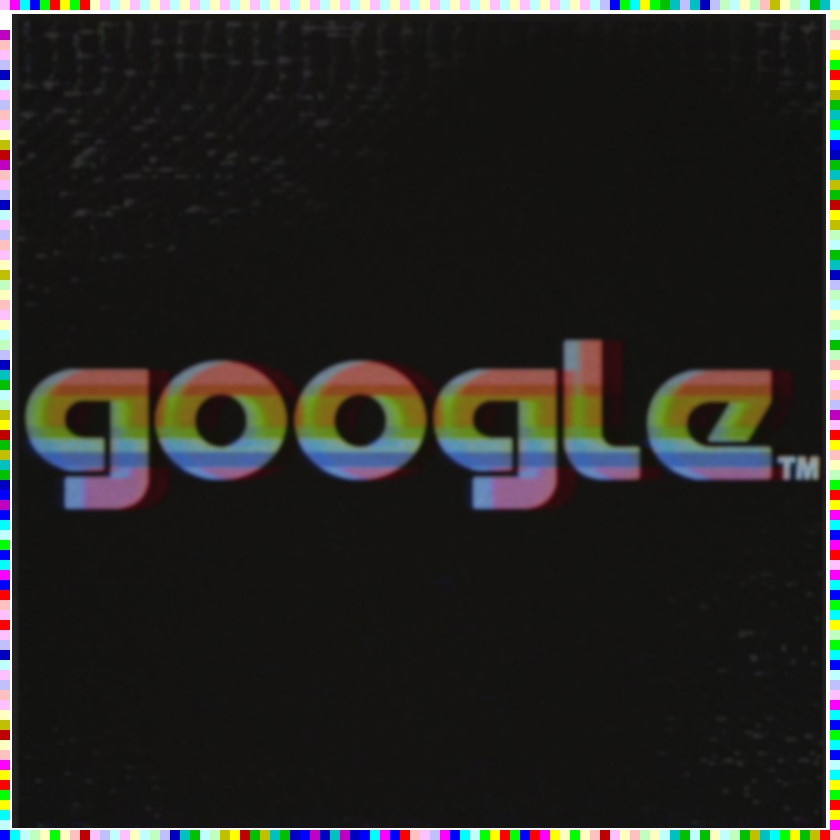
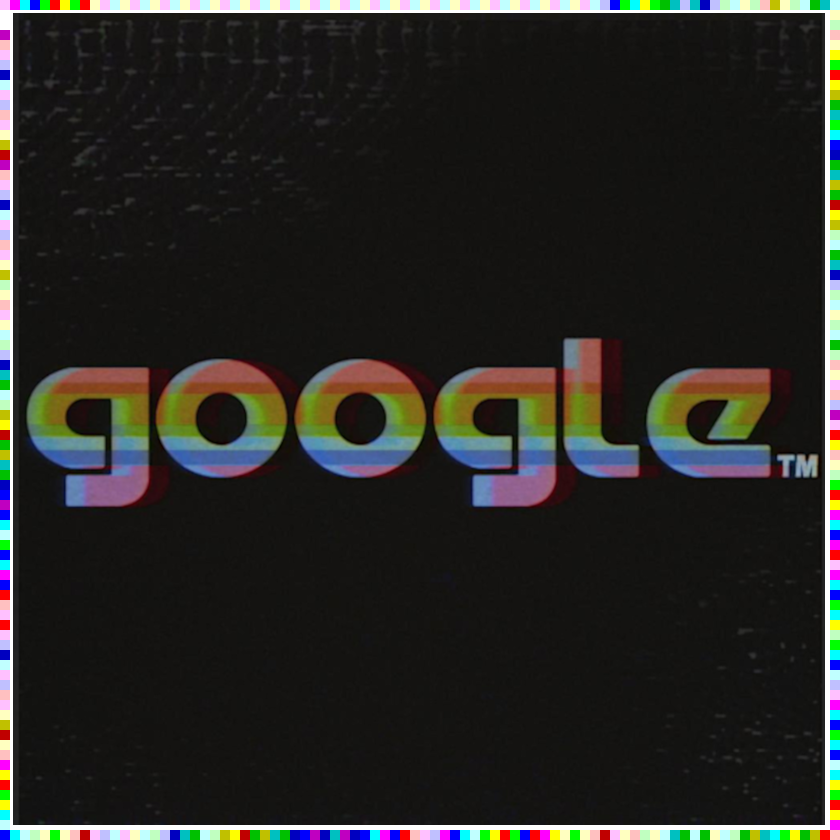
Sharpen Image

diff --git a/misc/abstract/README.md b/misc/abstract/README.md
@@ -11,7 +11,7 @@ Did you know that you can program with art?
 Upload the files in `distrib` to a static file server.
 
 - abstract.png
-    - SHA1: `ab9a4a3010a0757b3bee150c207de247cb6e0bee`
+    - SHA1: `fc5bc08f4d1aa995e2756cfc663b12dab51c6916`
 
 ## Solution
 
@@ -21,4 +21,4 @@ Piet is an esoteric programming language in which programs look like abstract pa
 `CYS{p3r5p3c71v3_m4773r5}`
 
 #### Credits
-[Retro Google Image](https://www.reddit.com/r/outrun/comments/99kuld/continued_i_recreated_some_modern_internet/)
+[Retro Google Logo](https://www.reddit.com/r/outrun/comments/99kuld/continued_i_recreated_some_modern_internet/)
